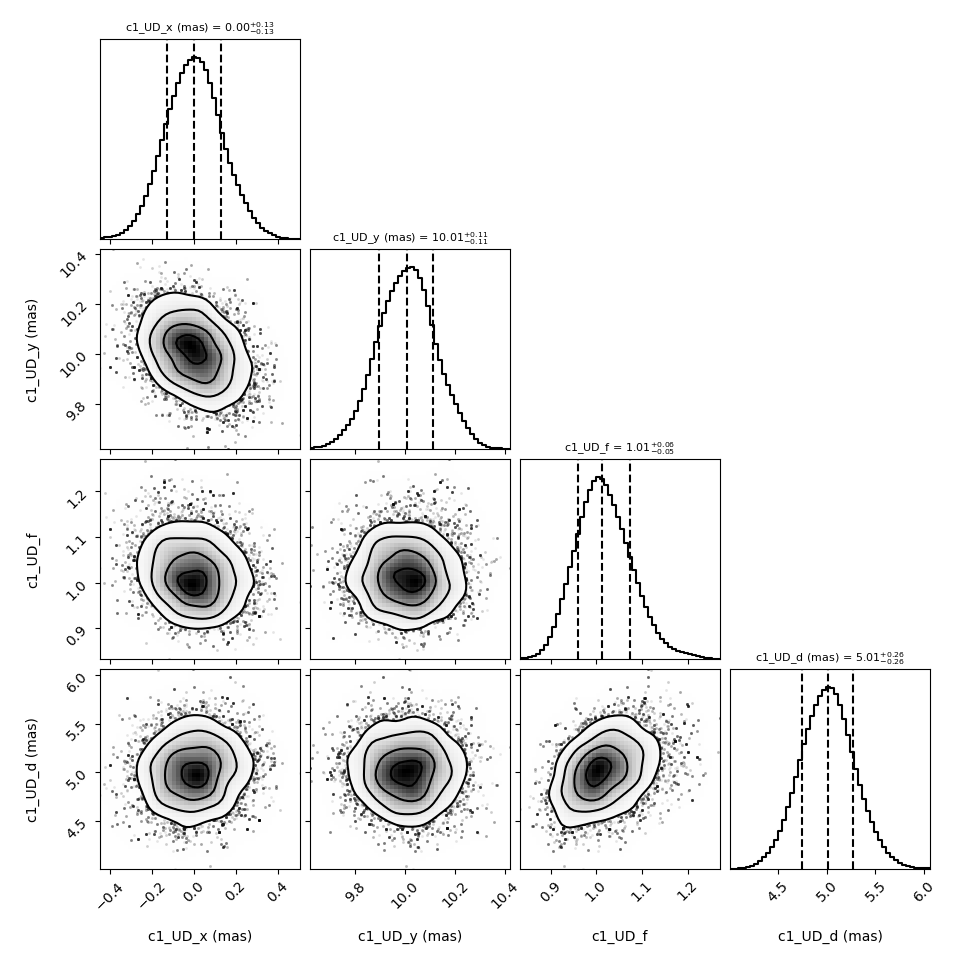
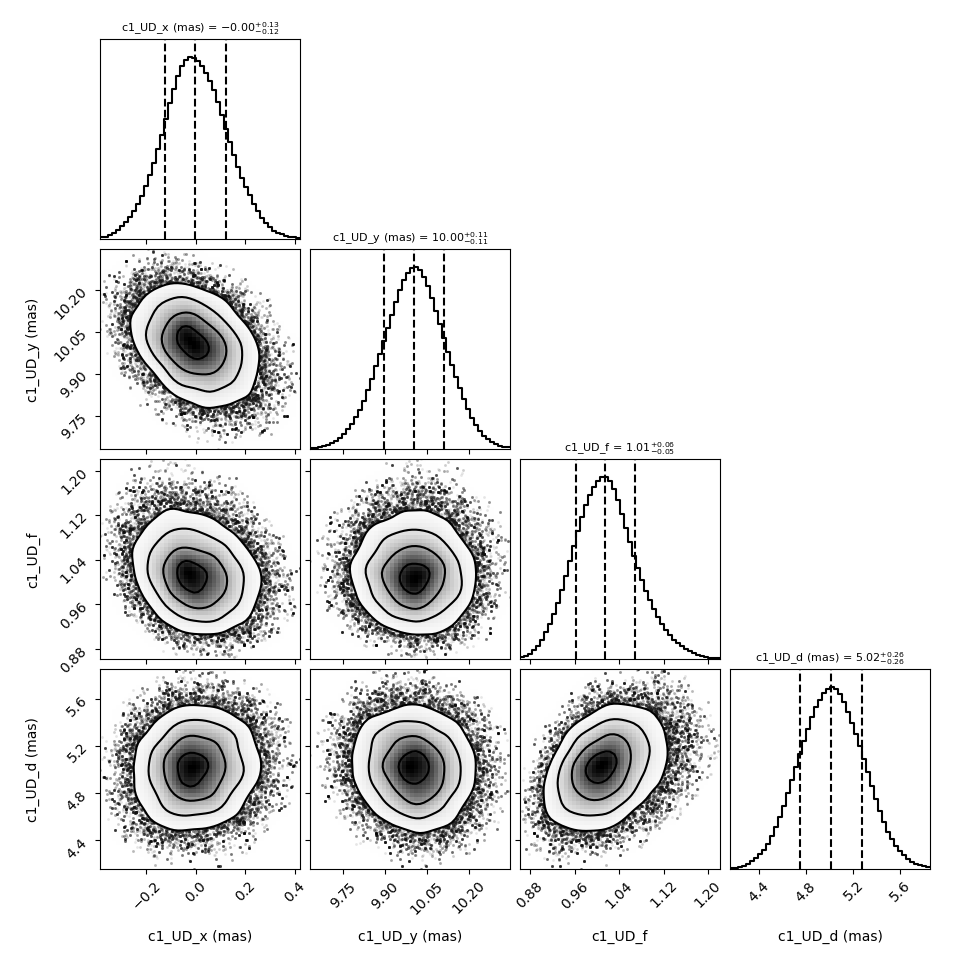
emcee fitter and example pudated (include result computation)

diff --git a/oimodeler/oimFitter.py b/oimodeler/oimFitter.py
@@ -63,7 +63,7 @@ class oimFitter(object):
         return kwargs
         
     def getResults(**kwargs):
-        return kwargs
+        return 0
     
     def _prepare(self,**kwargs):
         return kwargs
@@ -147,9 +147,39 @@ class oimFitterEmcee(oimFitter):
         
         self.simulator.compute(computeChi2=True)
         return -0.5 * self.simulator.chi2r  
+    
+    
+    def getResults(self,mode='best',discard=0,chi2limfact=20,**kwargs):
+        chi2=-2*self.sampler.get_log_prob(discard=discard,flat=True)
+        chain=self.sampler.get_chain(discard=discard,flat=True)
+        
+        idx=np.where(chi2<=chi2limfact*chi2.min())[0]
+        chain2=chain[idx,:]
+        
+        if mode=='best':
+            idx=np.argmin(chi2)
+            res=chain[idx]
+        elif mode=='mean':
+            res=np.mean(chain2,axis=0)
+        elif mode=='median':
+            res=np.median(chain2,axis=0)  
+        else:
+            raise NameError ("'mode' should be either 'best', 'mean' or 'median'")
+        
+        nparam=chain.shape[1]
+        err_m=np.ndarray([nparam])
+        err_p=np.ndarray([nparam])
+        for iparam in range(nparam):
+            err_m[iparam]=np.abs(np.quantile(chain2[:,iparam],0.16)-res[iparam])
+            err_p[iparam]=np.abs(np.quantile(chain2[:,iparam],0.84)-res[iparam])
+            
+            
+        err=0.5*(err_m+err_p)
+        return res,err,err_m,err_p
+            
         
     
-    def cornerPlot(self,discard=0,chi2lim=20,savefig=None,**kwargs):
+    def cornerPlot(self,discard=0,chi2limfact=20,savefig=None,**kwargs):
         pnames=list(self.freeParams.keys())
         punits=[p.unit for p in list(self.freeParams.values())]
         
@@ -163,14 +193,16 @@ class oimFitterEmcee(oimFitter):
         c=self.sampler.get_chain(discard=discard,flat=True)
         chi2=-2*self.sampler.get_log_prob(discard=discard,flat=True)
 
-        idx=np.where(chi2<chi2lim)[0]
+        idx=np.where(chi2<chi2limfact*chi2.min())[0]
         c2=c[idx,:]
 
-        corner.corner(c2,labels=labels,quantiles=[0.16, 0.5, 0.84],show_titles=True,bins=50
+        fig=corner.corner(c2,labels=labels,quantiles=[0.16, 0.5, 0.84],show_titles=True,bins=50
                       ,smooth=2,smooth1d=2,fontsize=8,title_kwargs={'fontsize':8},use_math_text=True)
 
         if savefig!=None:
             plt.savefig(savefig)
+        
+        return fig,fig.axes
 
     def walkersPlot(self,savefig=None,**kwargs):
         fig, ax = plt.subplots(4, figsize=(10, 7), sharex=True)
@@ -211,5 +243,8 @@ class oimFitterEmcee(oimFitter):
 
         if savefig!=None:
             plt.savefig(savefig)
-    
+            
+        return fig,ax
+
+
     

diff --git a/examples/BasicExamples/simpleFitEmcee.py b/examples/BasicExamples/simpleFitEmcee.py
@@ -33,7 +33,7 @@ ud.params['y'].set(min=-50,max=50,free=True)
 ud.params['f'].set(min=0.,max=10.)
 pt.params['f'].free=False
 
-#Create a new fitter wwith 32 walkers and the list of oifits files and the model
+#Create a new fitter with 32 walkers and the list of oifits files and the model
 fit=oim.oimFitterEmcee(files,model,nwalkers=32)
 #print(fit._logProbability([0,10,1,5]))
 
@@ -43,14 +43,22 @@ fit=oim.oimFitterEmcee(files,model,nwalkers=32)
 fit.prepare(init="random")
 
 #Printing the initial values of the walkers
+print("Initial values of the free parameters for the {} walkers".format(fit.params["nwalkers"].value))
 print(fit.initialParams)
 
 #run a 1000 steps fit with fixed starting inital and 1000 steps 
-fit.run(nsteps=2000,progress=True)
+fit.run(nsteps=10000,progress=True)
+
+
+#%%
+best,err_m,err_p,err=fit.getResults(mode='best')
+mean,err_m,err_p,err=fit.getResults(mode='mean',discard=2000,chi2limfact=10)
+median,err_m,err_p,err=fit.getResults(mode='median',discard=2000,chi2limfact=10)
 
 #%% Saving corner and walkers plots
-fit.cornerPlot(discard=400,savefig=
-               os.path.join(path,os.pardir,"images","SimpleFitCorner.png"))
+figCorner,axeCorner=fit.cornerPlot(discard=2000)#,savefig=
+               #os.path.join(path,os.pardir,"images","SimpleFitCorner.png"))
 
-fit.walkersPlot(cmap="plasma_r",savefig=
-                os.path.join(path,os.pardir,"images","SimpleFitWalkers.png"))
+figWalkers,axeWalkers=fit.walkersPlot(cmap="plasma_r")#,savefig=
+                #os.path.join(path,os.pardir,"images","SimpleFitWalkers.png"))
+
